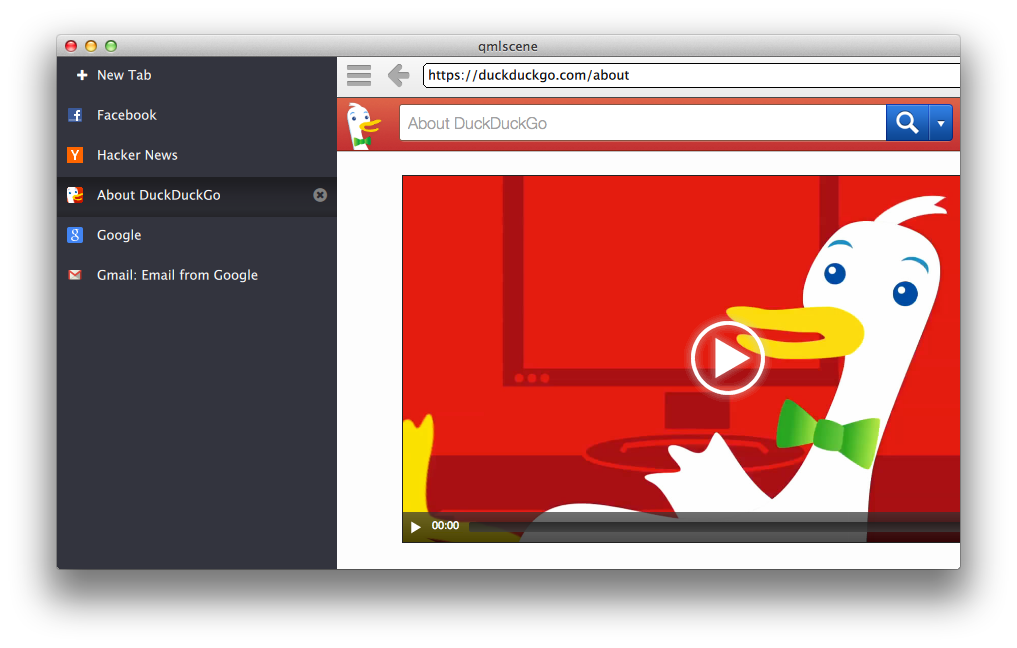
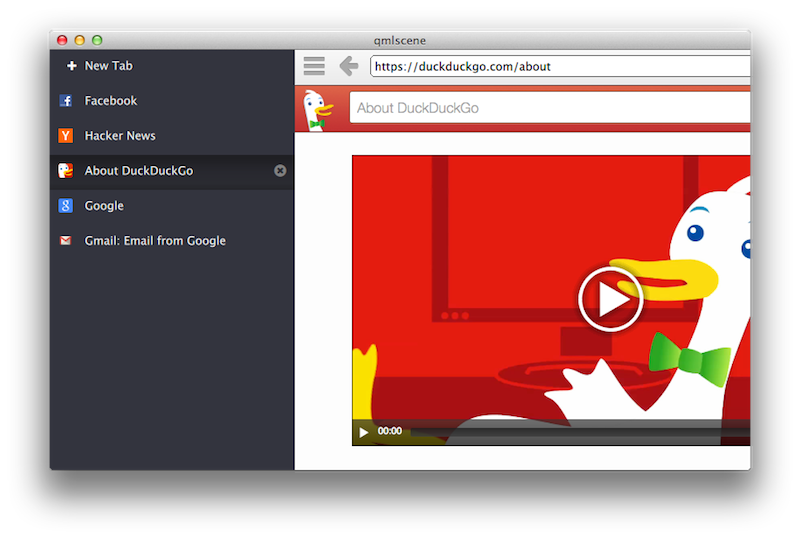
Added gifs

Changed region(s): [[0.0312, 0.0594, 0.9688, 0.8905], [0.75, 0.0297, 0.7812, 0.0594], [0.3125, 0.0297, 0.3438, 0.0594]]

diff --git a/Shell/qml/userscript.js b/Shell/qml/userscript.js
@@ -12,3 +12,13 @@ document.documentElement.addEventListener('click', (function(e) {
         node = node.parentNode;
     }
 }), true);
+
+var hold;
+function longPressed(x, y) { navigator.qt.postMessage('longpressed: '+x+', '+y) }
+window.document.addEventListener('mousedown', (function(e) {
+//    hold = setTimeout(longPressed, 800, e.clientX, e.clientY); 
+    navigator.qt.postMessage('mousedown: '+e.clientX+', '+e.clientY)
+}), true);
+window.document.addEventListener('mouseup', (function() {
+    clearTimeout(hold); 
+}), true);

diff --git a/Shell/qml/Shell.qml b/Shell/qml/Shell.qml
@@ -144,6 +144,7 @@ Item {
             historyModel.insert(0, {"url": highlightTerms(result.rows.item(i).url, str), 
             "title": result.rows.item(i).title});
         }
+        historyListView.currentIndex = 0;
     }
 
     Component {

diff --git a/Shell/README.md b/Shell/README.md
@@ -1,16 +1,22 @@
 # SlateKit Shell
 ### QML WebKit Browser with Sliding Drawer UI 
 
+![Drawer](https://raw.github.com/penk/SlateKit/master/Shell/screenshots/drawer.png)
+
 ## Features 
 
 - Based on Qt5/QtQuick2 API, all in QML/JavaScript
 - Sliding-Drawer UI with side-tab support 
 
-![Drawer](https://raw.github.com/penk/SlateKit/master/Shell/screenshots/drawer.png)
+![Drawer](https://raw.github.com/penk/SlateKit/master/Shell/screenshots/drawer.gif)
 
 - Search suggestion and highlight via LocalStorage 
 
-![Suggestion](https://raw.github.com/penk/SlateKit/master/Shell/screenshots/suggestion.png)
+![Suggestion](https://raw.github.com/penk/SlateKit/master/Shell/screenshots/suggestion.gif)
+
+- Custom event binding including Open in New Tab 
+
+![New Tab](https://raw.github.com/penk/SlateKit/master/Shell/screenshots/new_tab.gif)
 
 ## License 
 
